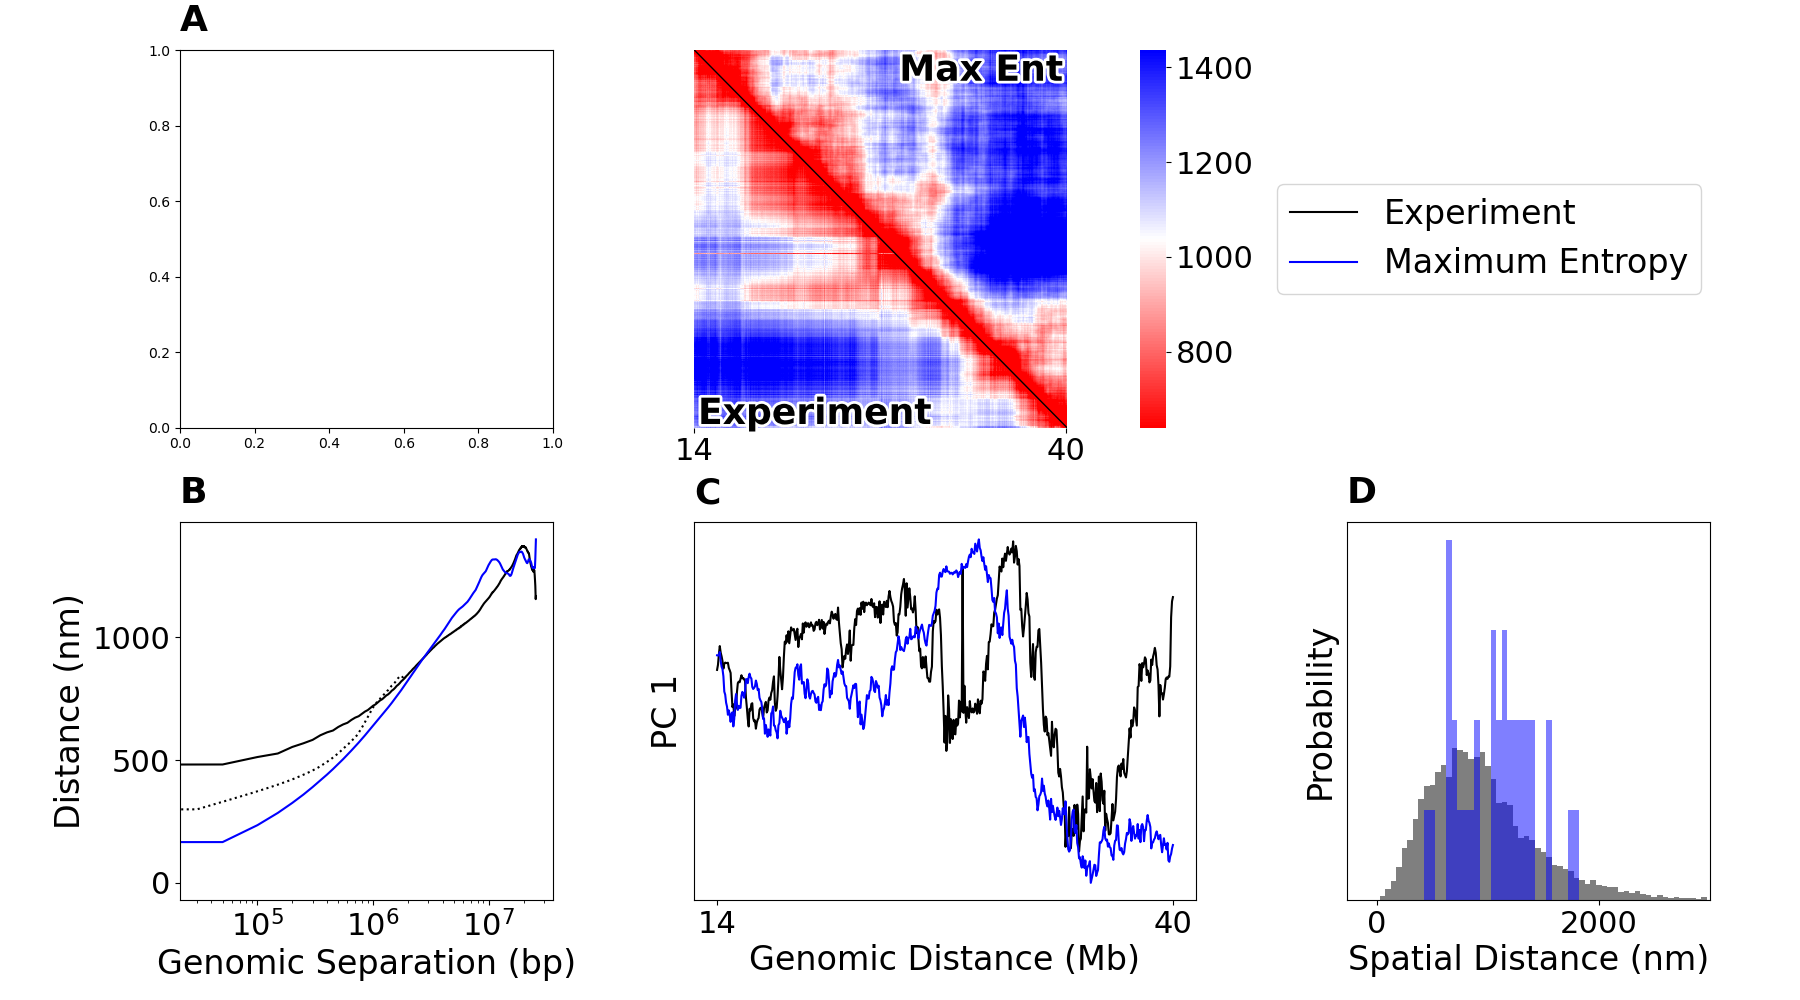
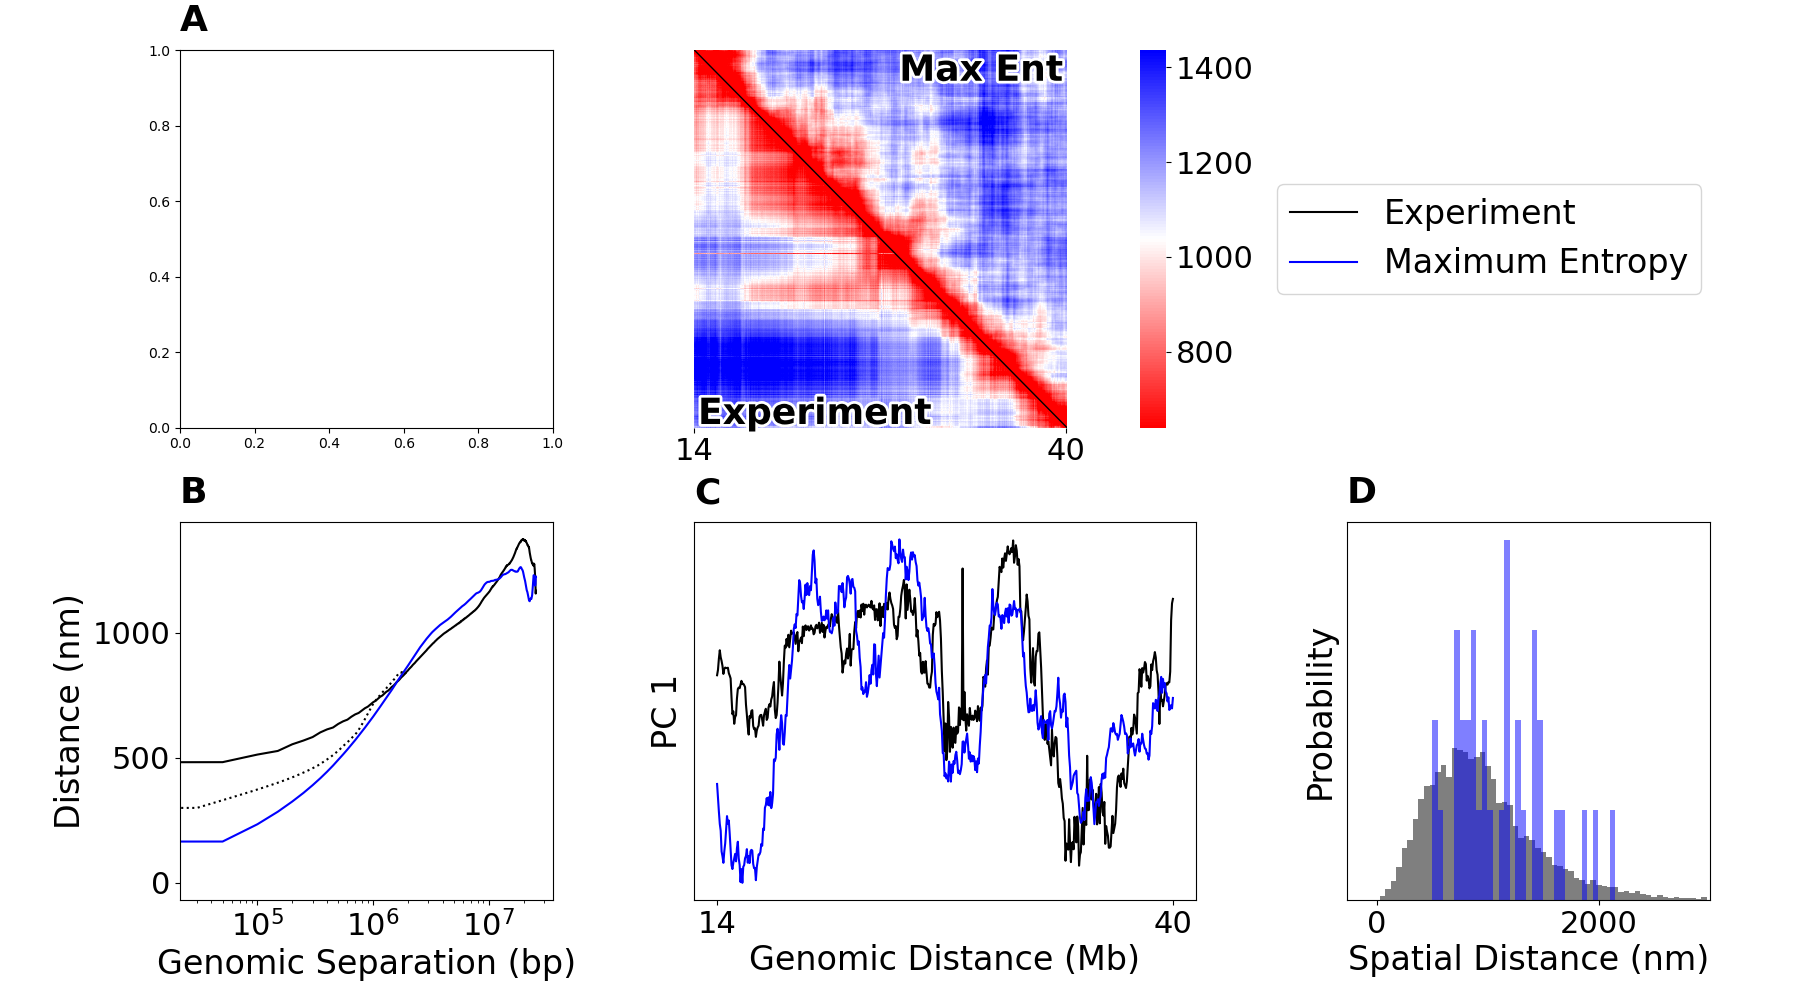
images

diff --git a/scripts/distances_Su2020/figures.py b/scripts/distances_Su2020/figures.py
@@ -484,5 +484,5 @@ def supp_figure(sample, GNN_ID, bl, phi, ar):
 
 
 if __name__ == '__main__':
-    old_figure(1004, None, bl=180, phi=0.01, ar=2.0)
+    old_figure(1004, None, bl=180, phi=0.008, ar=1.5)
     # supp_figure(1004, None, bl=180, phi=0.01, ar=2.0)

diff --git a/scripts/data_generation/test.py b/scripts/data_generation/test.py
@@ -425,7 +425,7 @@ def compare_d_s_max_ent2():
     print(meanDist_D_exp2)
     m2 = len(meanDist_D_exp2)
 
-    for log in [False]:
+    for log in [True]:
         if log:
             odir = osp.join(odir, 'log')
             if not osp.exists(odir):
